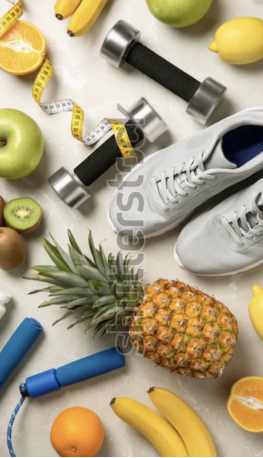
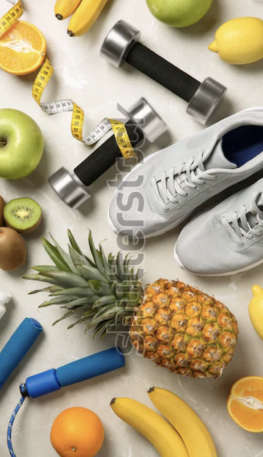
optimized pictures and made some fixes

diff --git a/src/files/index.html b/src/files/index.html
@@ -8,7 +8,7 @@
     @@include('html/_header.html',{})
 
     <section class="hero">
-      <div class="hero__wrapper">
+        <div class="hero__wrapper">
         <div class="hero__inner">
           <div class="hero__info">
             <h1 class="hero__heading">
@@ -29,20 +29,10 @@
           <div class="hero__slider">
             <div class="hero-slider">
               <div class="hero-slider__slide">
-                <picture>
-                  <source type="image/webp" media="(min-width: 768px)" srcset="@img/hero-big.webp 1x, @img/hero-big@2x.webp 2x"> 
-                  <source type="image/webp" srcset="@img/hero.webp 1x, @img/hero@2x.webp 2x"> 
-                  <source media="(min-width: 768px)" srcset="@img/hero-big.png 1x, @img/hero-big@2x.png 2x"> 
-                  <img class="hero-slider__image" src="@img/hero.png" srcset="@img/hero@2x.png 2x">
-                </picture>
+                <img class="hero-slider__image" src="@img/hero1.webp" srcset="@img/hero1@2x.webp 2x" >
               </div>
               <div class="hero-slider__slide">
-                <picture>
-                  <source type="image/webp" media="(min-width: 768px)" srcset="@img/hero-big.webp 1x, @img/hero-big@2x.webp 2x"> 
-                  <source type="image/webp" srcset="@img/hero.webp 1x, @img/hero@2x.webp 2x"> 
-                  <source media="(min-width: 768px)" srcset="@img/hero-big.png 1x, @img/hero-big@2x.png 2x"> 
-                  <img class="hero-slider__image" src="@img/hero.png" srcset="@img/hero@2x.png 2x">
-                </picture>
+                <img class="hero-slider__image" src="@img/hero1.png" srcset="@img/hero1@2x.png 2x" >
               </div>
             </div>
             <a href="#places" class="hero__slider-button button">
@@ -127,7 +117,7 @@
               <div class="production-slider__slide production-slider__slide--empty swiper-slide">
               </div>
               <div class="production-slider__slide swiper-slide">
-                <img class="production-slider__image" src="@img/production.jpg" srcset="@img/production@2x.png 2x" alt="production">
+                <img class="production-slider__image" src="@img/production.jpg" alt="production">
                 <button class="production-slider__slide-button">
                   <svg width="67" height="67" viewBox="0 0 67 67" fill="none" xmlns="http://www.w3.org/2000/svg">
                     <circle cx="33.5" cy="33.5" r="33" fill="white" fill-opacity="0.3" stroke="#47093E"/>
@@ -136,7 +126,7 @@
                 </button>
               </div>
               <div class="production-slider__slide swiper-slide">
-                <img class="production-slider__image" src="@img/production.jpg" srcset="@img/production@2x.png 2x" alt="production">
+                <img class="production-slider__image" src="@img/production.jpg" alt="production">
                 <button class="production-slider__slide-button">
                   <svg width="67" height="67" viewBox="0 0 67 67" fill="none" xmlns="http://www.w3.org/2000/svg">
                     <circle cx="33.5" cy="33.5" r="33" fill="white" fill-opacity="0.3" stroke="#47093E"/>
@@ -145,7 +135,7 @@
                 </button>
               </div>
               <div class="production-slider__slide swiper-slide">
-                <img class="production-slider__image" src="@img/production.jpg" srcset="@img/production@2x.png 2x" alt="production">
+                <img class="production-slider__slide production-slider__image" src="@img/production.jpg" alt="production">
                 <button class="production-slider__slide-button">
                   <svg width="67" height="67" viewBox="0 0 67 67" fill="none" xmlns="http://www.w3.org/2000/svg">
                     <circle cx="33.5" cy="33.5" r="33" fill="white" fill-opacity="0.3" stroke="#47093E"/>
@@ -154,7 +144,7 @@
                 </button>
               </div>
               <div class="production-slider__slide swiper-slide">
-                <img class="production-slider__image" src="@img/production.jpg" srcset="@img/production@2x.png 2x" alt="production">
+                <img class="production-slider__slide production-slider__image" src="@img/production.jpg" alt="production">
                 <button class="production-slider__slide-button">
                   <svg width="67" height="67" viewBox="0 0 67 67" fill="none" xmlns="http://www.w3.org/2000/svg">
                     <circle cx="33.5" cy="33.5" r="33" fill="white" fill-opacity="0.3" stroke="#47093E"/>
@@ -163,7 +153,7 @@
                 </button>
               </div>
               <div class="production-slider__slide swiper-slide">
-                <img class="production-slider__image" src="@img/production.jpg" srcset="@img/production@2x.png 2x" alt="production">
+                <img class="production-slider__slide production-slider__image" src="@img/production.jpg" alt="production">
                 <button class="production-slider__slide-button">
                   <svg width="67" height="67" viewBox="0 0 67 67" fill="none" xmlns="http://www.w3.org/2000/svg">
                     <circle cx="33.5" cy="33.5" r="33" fill="white" fill-opacity="0.3" stroke="#47093E"/>
@@ -203,7 +193,7 @@
           </div>
           <div class="opinions__slider opinions-slider">
             <div class="opinions-slider__slide">
-              <img class="opinions-slider__image" src="@img/opinions.jpg" srcset="@img/opinions@2x.png 2x" alt="opinions" width="847" height="570">
+              <img class="opinions-slider__image" src="@img/opinions.jpg" alt="opinions" width="847" height="570">
               <button class="opinions-slider__button" type="button" aria-label="проиграть видео">
                 <svg width="67" height="67" viewBox="0 0 67 67" fill="none" xmlns="http://www.w3.org/2000/svg">
                   <circle cx="33.5" cy="33.5" r="33" fill="white" fill-opacity="0.3" />
@@ -212,7 +202,7 @@
               </button>
             </div>
             <div class="opinions-slider__slide">
-              <img class="opinions-slider__image" src="@img/opinions.jpg" srcset="@img/opinions@2x.png 2x" alt="opinions" width="847" height="570">
+              <img class="opinions-slider__image" src="@img/opinions.jpg" alt="opinions" width="847" height="570">
               <button class="opinions-slider__button" type="button" aria-label="проиграть видео">
                 <svg width="67" height="67" viewBox="0 0 67 67" fill="none" xmlns="http://www.w3.org/2000/svg">
                   <circle cx="33.5" cy="33.5" r="33" fill="white" fill-opacity="0.3" />
@@ -221,7 +211,7 @@
               </button>
             </div>
             <div class="opinions-slider__slide">
-              <img class="opinions-slider__image" src="@img/opinions.jpg" srcset="@img/opinions@2x.png 2x" alt="opinions" width="847" height="570">
+              <img class="opinions-slider__image" src="@img/opinions.jpg" alt="opinions" width="847" height="570">
               <button class="opinions-slider__button" type="button" aria-label="проиграть видео">
                 <svg width="67" height="67" viewBox="0 0 67 67" fill="none" xmlns="http://www.w3.org/2000/svg">
                   <circle cx="33.5" cy="33.5" r="33" fill="white" fill-opacity="0.3" />
@@ -275,7 +265,7 @@
             <h2 class="places__title title">Где купить</h2>
             <p class="places__text">Ветонизирующее средство ВЕНАРУС вы можете приобрести в аптеках вашего города</p>
           </div>
-          <img class="places__image" src="@img/places.png" srcset="@img/places@2x.png 2x" width="752" height="490" alt="Изображение продукта">
+          <img class="places__image" src="@img/places.png" alt="">
         </div>
         <div class="places__links">
           <a class="places__link button" href="#">apteka.ru</a>

diff --git a/src/scss/blocks/_information-grid.scss b/src/scss/blocks/_information-grid.scss
@@ -31,6 +31,10 @@
 
 .information-grid__item:first-child {
   background-image: linear-gradient(179.96deg, rgba(71, 9, 62, 0.9) -0.95%, rgba(71, 9, 62, 0) 99.97%), url("@img/information-1.jpg");
+
+  @media (min-resolution: 2dppx) {
+    background-image: linear-gradient(179.96deg, rgba(71, 9, 62, 0.9) -0.95%, rgba(71, 9, 62, 0) 99.97%), url("@img/information-1@2x.jpg");
+  }
  
   @media #{$tablet} {
     grid-row: span 3; 
@@ -43,11 +47,19 @@
 
 .information-grid__item:nth-child(2) {
   background-image: linear-gradient(179.96deg, rgba(71, 9, 62, 0.9) -0.95%, rgba(71, 9, 62, 0) 99.97%), url("@img/information-2.jpg");
+
+  @media (min-resolution: 2dppx) {
+    background-image: linear-gradient(179.96deg, rgba(71, 9, 62, 0.9) -0.95%, rgba(71, 9, 62, 0) 99.97%), url("@img/information-2@2x.jpg");
+  }
 }
 
 .information-grid__item:nth-child(3) {
   background-image: linear-gradient(179.96deg, rgba(71, 9, 62, 0.9) -0.95%, rgba(71, 9, 62, 0) 99.97%), url("@img/information-3.jpg");
   background-position: center;
+
+  @media (min-resolution: 2dppx) {
+    background-image: linear-gradient(179.96deg, rgba(71, 9, 62, 0.9) -0.95%, rgba(71, 9, 62, 0) 99.97%), url("@img/information-3@2x.jpg");
+  }
 }
 
 .information-grid__item:last-child {

diff --git a/src/files/picture.html b/src/files/picture.html
@@ -1,0 +1,1 @@
+<picture><source type="images/webp" media="(min-width: 768px)" srcset="./images/hero-1-tablet.webp 1x, ./images/hero-1-tablet@2x.webp 2x"><source type="images/webp" srcset="./images/hero-1.webp 1x, ./images/hero-1@2x.webp 2x"><source media="(min-width: 768px)" srcset="./images/hero-1-tablet.png 1x, @img/hero-1-tablet@2x.png 2x"><img class="hero-slider__image" src="./images/hero-1.png" srcset="@img/hero-1@2x.png 2x"></picture>

diff --git a/src/scss/blocks/_production-slider.scss b/src/scss/blocks/_production-slider.scss
@@ -39,7 +39,7 @@
       height: 150px;
       margin-right: 30px;
       transition: all .5s;
-      filter: blur(2px);
+      filter: blur(2px) brightness(1.5);
     }
   }
 

diff --git a/src/scss/blocks/_places.scss b/src/scss/blocks/_places.scss
@@ -75,6 +75,8 @@
 }
 
 .places__image {
+  height: auto;
+
   @media #{$desktop-mid}{
     margin-top: -68px;
   }
